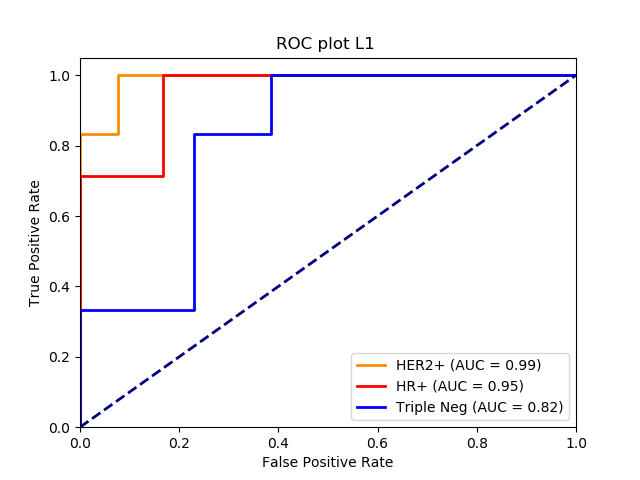
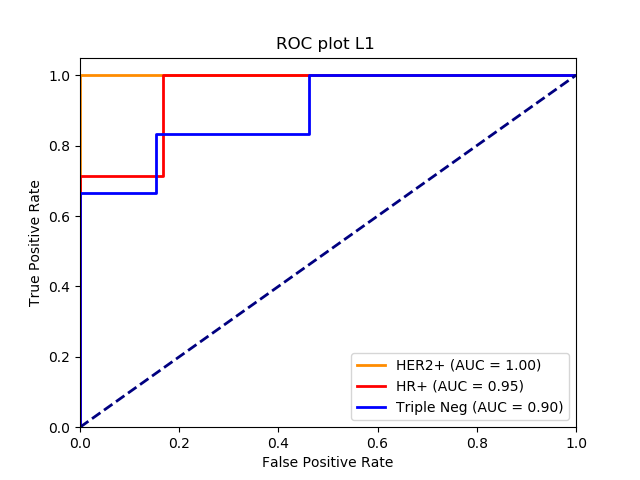
changed amount of iterations

diff --git a/scripts/Main.py b/scripts/Main.py
@@ -14,13 +14,14 @@ import matplotlib.pyplot as plt
 
 
 class Model:
-    def __init__(self, svm, c_l1, best_features, accuracy_validate, best_params, n_features):
+    def __init__(self, svm, c_l1, best_features, accuracy_validate, best_params, n_features, iteration):
         self.svm = svm
         self.c_l1 = c_l1
         self.best_features = best_features
         self.accuracy_validate = accuracy_validate
         self.best_params = best_params
         self.n_features = n_features
+        self.iteration = iteration
 
 
 def l1_selection(x_train, y_train, c_li):
@@ -33,7 +34,7 @@ def l1_selection(x_train, y_train, c_li):
     return pd.DataFrame(x_new), model, n_features
 
 
-def inner_cv(x_train, y_train, in_n_splits, state, estimator, param):
+def inner_cv(x_train, y_train, in_n_splits, state, estimator, param, iteration):
     c_l1_param = [0.01, 0.1, 1, 10]
     models = []
     for c_l1 in c_l1_param:
@@ -48,7 +49,7 @@ def inner_cv(x_train, y_train, in_n_splits, state, estimator, param):
         best_hyperparameters = gscv.best_params_
         val_score = gscv.best_score_
 
-        model = Model(gscv, c_l1, best_features, val_score, best_hyperparameters, n_features)
+        model = Model(gscv, c_l1, best_features, val_score, best_hyperparameters, n_features, iteration)
         models.append(model)
     highest_model = models[0]
     highest_model_score = models[0].accuracy_validate
@@ -70,80 +71,83 @@ def inner_cv(x_train, y_train, in_n_splits, state, estimator, param):
 
 
 def outer_cv(x_train, y_train, estimator, param, use_stratified):
-    state = 6
+    states = [6,5,4]
     out_n_splits = 5
     in_n_splits = 4
     models = []
     plot_number = 1
+    iterations = 15
 
-    if use_stratified:
-        # StratifiedKFold = Equal amount of each class per fold (uncomment next line to use)
-        out_cv = StratifiedKFold(n_splits=out_n_splits, shuffle=False, random_state=state)
-        print('Using stratified k-fold splitting, number of outer splits:\t' + str(out_n_splits))
-    else:
-        # Kfold = random amount of each class per fold
-        out_cv = KFold(n_splits=out_n_splits, shuffle=False, random_state=state)
-        print('Using unstratified k-fold splitting, number of outer splits:\t' + str(out_n_splits))
+    for iteration in range(3):
+        state = states[iteration]
+        if use_stratified:
+            # StratifiedKFold = Equal amount of each class per fold (uncomment next line to use)
+            out_cv = StratifiedKFold(n_splits=out_n_splits, shuffle=False, random_state=state)
+            print('Using stratified k-fold splitting, number of outer splits:\t' + str(out_n_splits))
+        else:
+            # Kfold = random amount of each class per fold
+            out_cv = KFold(n_splits=out_n_splits, shuffle=False, random_state=state)
+            print('Using unstratified k-fold splitting, number of outer splits:\t' + str(out_n_splits))
 
-    for i, (index_train_out, index_test_out) in enumerate(out_cv.split(x_train, y_train)):
-        x_train_out, x_test_out = x_train.iloc[index_train_out], x_train.iloc[index_test_out]
-        y_train_out, y_test_out = y_train.iloc[index_train_out], y_train.iloc[index_test_out]
+        for i, (index_train_out, index_test_out) in enumerate(out_cv.split(x_train, y_train)):
+            x_train_out, x_test_out = x_train.iloc[index_train_out], x_train.iloc[index_test_out]
+            y_train_out, y_test_out = y_train.iloc[index_train_out], y_train.iloc[index_test_out]
 
-        best_parameters, c_l1, best_features, validation_score = inner_cv(x_train_out, y_train_out, in_n_splits, state,
-                                                                          estimator, param)
+            best_parameters, c_l1, best_features, validation_score = inner_cv(x_train_out, y_train_out, in_n_splits, state,
+                                                                              estimator, param, iteration)
 
-        x_train_out_transformed = best_features.transform(x_train_out)
-        x_test_out_transformed = best_features.transform(x_test_out)
+            x_train_out_transformed = best_features.transform(x_train_out)
+            x_test_out_transformed = best_features.transform(x_test_out)
 
-        c = best_parameters["C"]
-        degree = best_parameters['degree']
-        gamma = best_parameters['gamma']
-        kernel = best_parameters['kernel']
+            c = best_parameters["C"]
+            degree = best_parameters['degree']
+            gamma = best_parameters['gamma']
+            kernel = best_parameters['kernel']
 
-        svc = SVC(C=c, kernel=kernel, degree=degree, gamma=gamma)
-        svc.fit(x_train_out_transformed, y_train_out)
-        val_score = svc.score(x_test_out_transformed, ravel(y_test_out))
-        model = Model(svc, c_l1, best_features, val_score, best_parameters, x_test_out_transformed.shape[1])
-        models.append(model)
+            svc = SVC(C=c, kernel=kernel, degree=degree, gamma=gamma)
+            svc.fit(x_train_out_transformed, y_train_out)
+            val_score = svc.score(x_test_out_transformed, ravel(y_test_out))
+            model = Model(svc, c_l1, best_features, val_score, best_parameters, x_test_out_transformed.shape[1], iteration)
+            models.append(model)
 
-        classes = ["HER2+", "HR+", "Triple Neg"]
-        y_train_out = label_binarize(y_train_out, classes=classes)
-        y_test_out = label_binarize(y_test_out, classes=classes)
-        n_classes = y_train_out.shape[1]
-        classifier = OneVsRestClassifier(SVC(kernel=model.best_params["kernel"], degree=model.best_params["degree"],
-                                             C=model.best_params["C"], gamma=model.best_params["gamma"],
-                                             probability=True, random_state=6))
-        y_score = classifier.fit(x_train_out_transformed,y_train_out).decision_function(x_test_out_transformed)
+            classes = ["HER2+", "HR+", "Triple Neg"]
+            y_train_out = label_binarize(y_train_out, classes=classes)
+            y_test_out = label_binarize(y_test_out, classes=classes)
+            n_classes = y_train_out.shape[1]
+            classifier = OneVsRestClassifier(SVC(kernel=model.best_params["kernel"], degree=model.best_params["degree"],
+                                                 C=model.best_params["C"], gamma=model.best_params["gamma"],
+                                                 probability=True, random_state=6))
+            y_score = classifier.fit(x_train_out_transformed,y_train_out).decision_function(x_test_out_transformed)
 
-        fpr = dict()
-        tpr = dict()
-        roc_auc = dict()
-        for i in range(n_classes):
-            fpr[i], tpr[i], _ = roc_curve(y_test_out[:, i], y_score[:, i])
-            roc_auc[i] = auc(fpr[i], tpr[i])
+            fpr = dict()
+            tpr = dict()
+            roc_auc = dict()
+            for i in range(n_classes):
+                fpr[i], tpr[i], _ = roc_curve(y_test_out[:, i], y_score[:, i])
+                roc_auc[i] = auc(fpr[i], tpr[i])
 
-        # Compute micro-average ROC curve and ROC area
-        fpr["micro"], tpr["micro"], _ = roc_curve(y_test_out.ravel(), y_score.ravel())
-        roc_auc["micro"] = auc(fpr["micro"], tpr["micro"])
+            # Compute micro-average ROC curve and ROC area
+            fpr["micro"], tpr["micro"], _ = roc_curve(y_test_out.ravel(), y_score.ravel())
+            roc_auc["micro"] = auc(fpr["micro"], tpr["micro"])
 
-        plt.figure()
-        lw = 2
-        plt.plot(fpr[0], tpr[0], color='darkorange',
-                 lw=lw, label='%s (AUC = %0.2f)' % (classes[0], roc_auc[0]))
-        plt.plot(fpr[1], tpr[1], color='red',
-                 lw=lw, label='%s (AUC = %0.2f)' % (classes[1],roc_auc[1]))
-        plt.plot(fpr[2], tpr[2], color='blue',
-                 lw=lw, label='%s (AUC = %0.2f)' % (classes[2],roc_auc[2]))
+            plt.figure()
+            lw = 2
+            plt.plot(fpr[0], tpr[0], color='darkorange',
+                     lw=lw, label='%s (AUC = %0.2f)' % (classes[0], roc_auc[0]))
+            plt.plot(fpr[1], tpr[1], color='red',
+                     lw=lw, label='%s (AUC = %0.2f)' % (classes[1],roc_auc[1]))
+            plt.plot(fpr[2], tpr[2], color='blue',
+                     lw=lw, label='%s (AUC = %0.2f)' % (classes[2],roc_auc[2]))
 
-        plt.plot([0, 1], [0, 1], color='navy', lw=lw, linestyle='--')
-        plt.xlim([0.0, 1.0])
-        plt.ylim([0.0, 1.05])
-        plt.xlabel('False Positive Rate')
-        plt.ylabel('True Positive Rate')
-        plt.title('ROC plot L1 ')
-        plt.legend(loc="lower right")
-        plt.savefig("../images/L1_feature_selection/ROC_plot%s.png" % plot_number)
-        plot_number += 1
+            plt.plot([0, 1], [0, 1], color='navy', lw=lw, linestyle='--')
+            plt.xlim([0.0, 1.0])
+            plt.ylim([0.0, 1.05])
+            plt.xlabel('False Positive Rate')
+            plt.ylabel('True Positive Rate')
+            plt.title('ROC plot L1 ')
+            plt.legend(loc="lower right")
+            plt.savefig("../images/L1_feature_selection/ROC_plot%s.png" % plot_number)
+            plot_number += 1
 
     return models
 
@@ -157,7 +161,7 @@ def nested_svm(data, labels, hyperparameters, use_stratified):
 
     models = outer_cv(df_data, labels, SVC(), hyperparameters, use_stratified)
     for model in models:
-        print(model.n_features, model.best_params, model.c_l1, model.accuracy_validate)
+        print(model.n_features, model.best_params, model.c_l1, model.accuracy_validate, model.iteration)
 
 
 def load_data(input_file, label_file):

diff --git a/scripts/graphs.py b/scripts/graphs.py
@@ -10,6 +10,7 @@ anova = np.array([0.864, 0.667, 0.842, 0.895, 0.842])
 recursive = np.array([0.75, 0.85, 0.80, 0.75, 0.9])
 l1_regularization = np.array([0.773, 0.762, 0.842, 0.842, 0.842])
 anova_2 = np.array([0.818, 0.762, 1.0, 0.842, 0.842, 0.773, 0.667, 0.895, 0.842, 0.737, 0.773, 0.667, 0.895, 0.789, 0.737])
+l1_regularization_2 = np.array([0.727, 0.762, 0.842, 0.842, 0.842, 0.727, 0.762, 0.947, 0.842, 0.842, 0.773, 0.667, 0.947, 0.895, 0.842])
 
 # calculate the average
 baseline_mean = np.mean(baseline)
@@ -17,6 +18,7 @@ anova_mean = np.mean(anova)
 recursive_mean = np.mean(recursive)
 l1_regularization_mean = np.mean(l1_regularization)
 anova_2_mean = np.mean(anova_2)
+l1_regularization_2_mean = np.mean(l1_regularization_2)
 
 # calculate the standard deviation
 baseline_std = np.std(baseline)
@@ -24,6 +26,7 @@ anova_std = np.std(anova)
 recursive_std = np.std(recursive)
 l1_regularization_std = np.std(l1_regularization)
 anova_2_std = np.std(anova_2)
+l1_regularization_2_std = np.std(l1_regularization_2)
 
 # calculate the standard error
 baseline_se = stats.sem(baseline)
@@ -31,6 +34,7 @@ anova_se = stats.sem(anova)
 recursive_se = stats.sem(recursive)
 l1_regularization_se = stats.sem(l1_regularization)
 anova_2_se = stats.sem(anova_2)
+l1_regularization_2_se = stats.sem(l1_regularization_2)
 
 
 """
@@ -46,10 +50,10 @@ print(anova_2_mean, anova_2_std, anova_2_se)
 
 
 # create lists for the plot
-methods = ['Baseline', 'ANOVA', 'ANOVA_2', 'RFS-SVM', 'L1']
+methods = ['Baseline', 'ANOVA', 'ANOVA_2', 'RFS-SVM', 'L1', 'L1_2']
 x_pos = np.arange(len(methods))
-CTEs = [baseline_mean, anova_mean, anova_2_mean, recursive_mean, l1_regularization_mean]
-error = [baseline_se, anova_se, anova_2_se, recursive_se, l1_regularization_se]
+CTEs = [baseline_mean, anova_mean, anova_2_mean, recursive_mean, l1_regularization_mean, l1_regularization_2_mean]
+error = [baseline_se, anova_se, anova_2_se, recursive_se, l1_regularization_se, l1_regularization_2_se]
 
 # build the plot
 fig, ax = plt.subplots()
